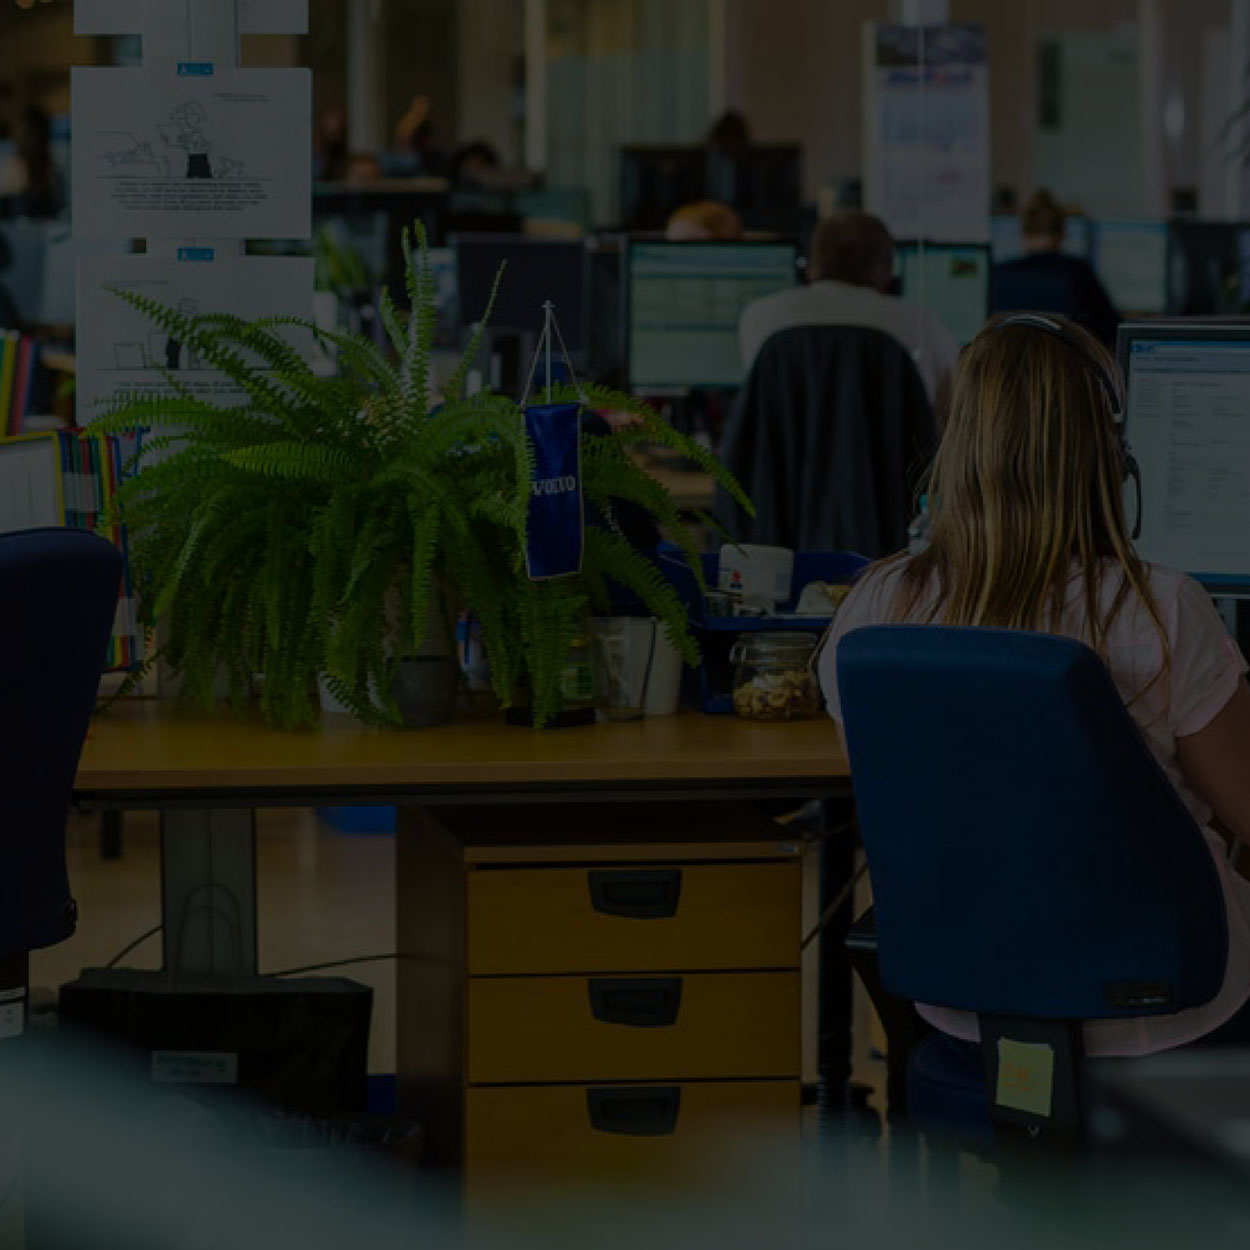
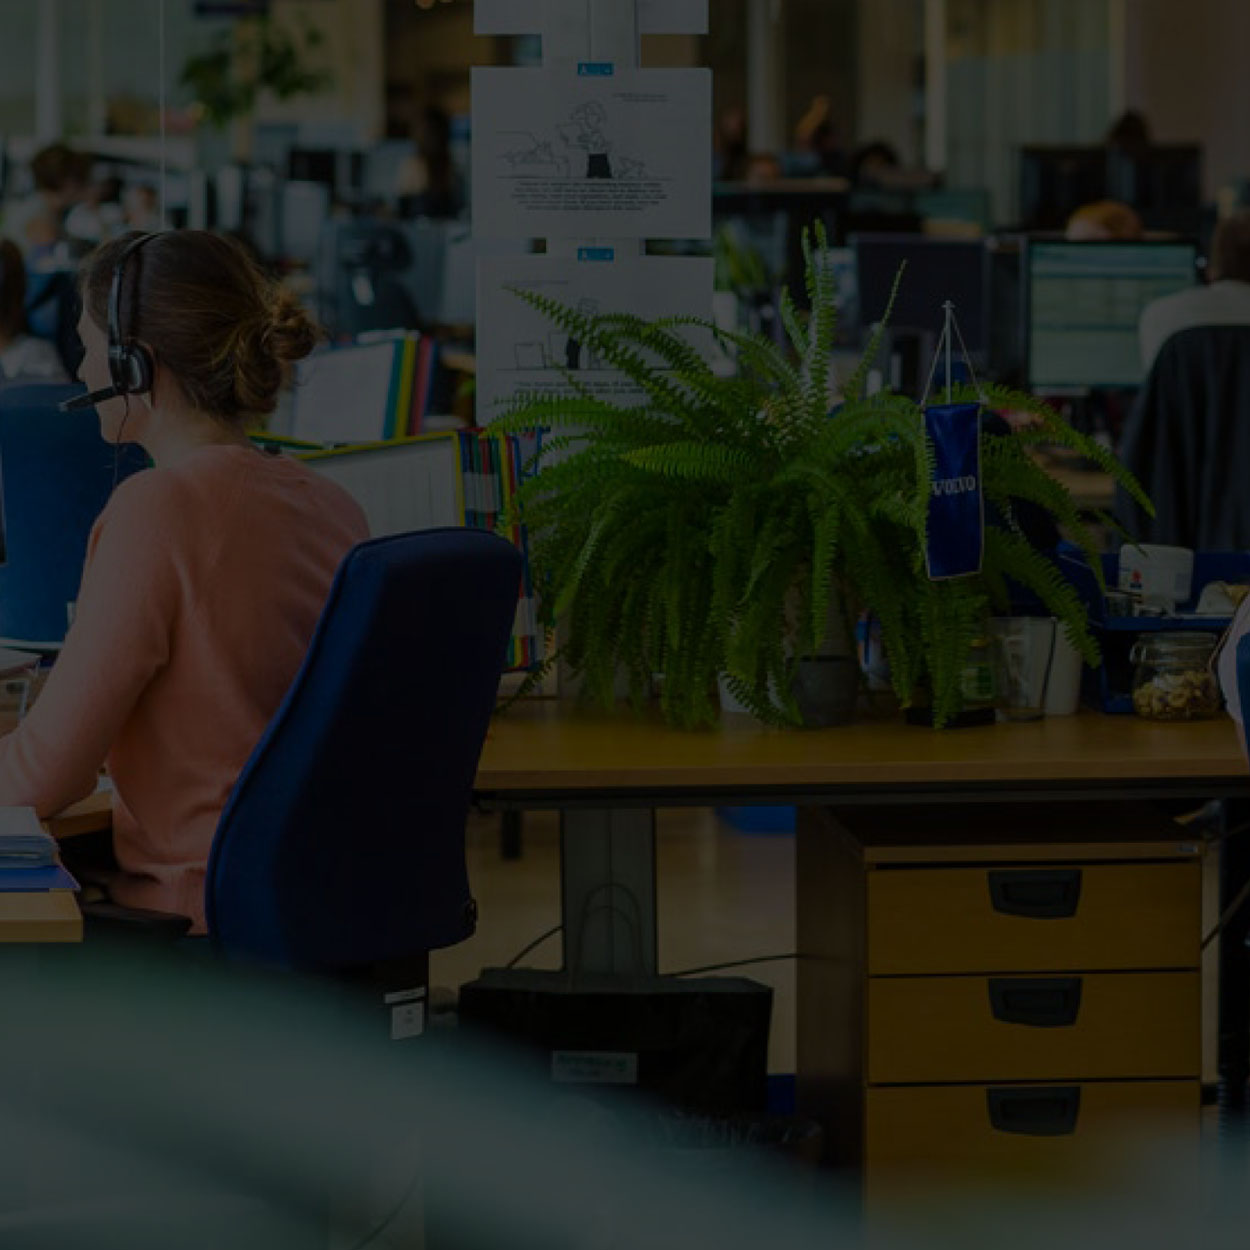
activecare responsive

diff --git a/html/volvo-activecare.html b/html/volvo-activecare.html
@@ -475,19 +475,44 @@
 
 
 
+<div class="tdxintroContain picturefill-background dark semi showMob">
+    <div class="tdxintroInner">
+        <section class="spaceApart alignCenter">
 
+            <div>
+                <img src="/images/2023/activecare/activecare-logo.svg" style="width:90%;" class="m">
+                <br><br>
+                <h5>Get connected.<br>Boost uptime.</h5>
+                <br><br><br><br>
+                <a href="#startM" class="icon"><i class="icon icon-arrow-down2 brandColor animated infinite bounceIn"></i></a>
+            </div>
 
+ 
 
-
-
-
-
-
-<div class="tdxintroContain picturefill-background fixedBG baseLayer">
-    <div class="fullscreen">
+        </section>
     </div>
     <span data-src="/images/2023/activecare/activecare1-m.jpg"></span><!-- use 4:3 aspect for ph -->
-    <span data-src="/images/2023/activecare/activecare1.jpg" data-media="(min-width: 1000px)"></span>
+</div>
+
+
+<div class="tdxintroContain dark showMob" name="startM">
+    <div class="tdxintroInner ">
+        <section class="bottom">
+            <div>
+            <h1 class=" green">Looking out for you.</h1>
+            <p>Telematics data can be a powerful way to improve the uptime of your fleet, but data
+                overload can stand in the way of getting to the information that really matters.</p>
+                <p>That's where Volvo ActiveCare comes in. Combining 24/7 machine monitoring and
+                    fleet utilization reports, this comprehensive service is designed to keep your machines
+                    in top operating condition, reduce unplanned downtime and minimize repair costs.</p>
+            </div>
+             <h5 class="green">Take a  closer look at Volvo ActiveCare</h5>
+            <div class="pbVideo">
+            <iframe src="https://www.youtube.com/embed/YI2-ov0Nit0?rel=0" allow="accelerometer; autoplay; encrypted-media; gyroscope; picture-in-picture" allowfullscreen="" width="560" height="315" frameborder="0"></iframe>
+        </div>
+        </section>
+    </div>
+    
 </div>
 
 
@@ -495,7 +520,15 @@
 
 
 
-<div class="tdxintroContain dark semi">
+
+<div class="tdxintroContain picturefill-background fixedBG baseLayer showDesk">
+    <div class="fullscreen">
+    </div>
+    <span data-src="/images/2023/activecare/activecare1-m.jpg"></span><!-- use 4:3 aspect for ph -->
+    <span data-src="/images/2023/activecare/activecare1.jpg" data-media="(min-width: 1000px)"></span>
+</div>
+
+<div class="tdxintroContain dark semi showDesk">
     <div class="tdxintroInner full">
         <section class="spaceApart insetCenter alignCenter">
 
@@ -516,7 +549,7 @@
 
 
 
-<div class="tdxintroContain picturefill-background fixedBG baseLayer">
+<div class="tdxintroContain picturefill-background fixedBG baseLayer showDesk">
     <div class="fullscreen">
     </div>
     <span data-src="/images/2023/activecare/activecare1-m.jpg"></span><!-- use 4:3 aspect for ph -->
@@ -525,7 +558,7 @@
 
 
 
-<div class="tdxintroContain dark noBG" name="start">
+<div class="tdxintroContain dark noBG showDesk" name="start">
     <div class="tdxintroInner full">
         <section class="bottom">
             <div>
@@ -559,10 +592,10 @@
         <section class="two cols">
 
             <div>
-           
+                
                 <h1 class=" green">The Volvo Uptime Centre</h1>
                 <br>
-            <p>We understand the importance of uptime when it comes
+                <p>We understand the importance of uptime when it comes
                 to the success of your operation, which is why Volvo
                 Construction Equipment has invested in creating Volvo
                 Uptime Centres throughout the world. </p>
@@ -570,6 +603,11 @@
                 <p>Our Volvo machine experts work in these Centres, utilizing the most advanced
                 diagnostic tools and systems, to help keep uptime to a
                 maximum.</p>
+                
+                <picture class="m">
+                    <img src="/images/2023/activecare/activecare4-1-m.jpg" ><br><br>
+                </picture>
+                
             </div>
 
             <div>
@@ -587,7 +625,7 @@
 
 
 
-        <section class=" cols">
+        <section class=" cols d">
             <div>
 
                 <br>
@@ -606,9 +644,16 @@
 </div>
 
 
+<div class="tdxintroContain dark showMob" style="padding:5vw;">
+    <br>
+    <img src="/images/2023/activecare/activecare-process-m.svg" >
+    <br>
+</div>
 
 
-<div class="tdxintroContain dark">
+
+
+<div class="tdxintroContain dark showDesk">
     <div class="tdxintroInner overrideHeight darken">
         <section class=" insetCenter alignCenter">
 
@@ -643,11 +688,22 @@
 
 
 
+
+
 <div class="tdxintroContain dark picturefill-background" name="startFeatures">
     <div class="tdxintroInner darken">
         <section>
+            
+            <h1 class="green m">Volvo ActiveCare Key Benefits</h1>
+            <br class="m">
+            <hr class="m short thickLine">
+            <br class="m">
+            <br class="m">
+
+
+            <img src="/images/2023/activecare/24-7.svg" style="width:50%;" alt="24/7 Machine Monitoring" class="m">
             <img src="/images/2023/activecare/24-7.svg" style="width:80%;" alt="24/7 Machine Monitoring" class="d">
-            <h1 class="green m">24/7 Machine Monitoring</h1>
+
             <br>
            
 
@@ -684,14 +740,18 @@
 
 
 
+<div class="tdxintroContain dark showMob"> 
+    <img src="/images/2023/activecare/activecare6-m.jpg" >
+</div>
+
 
 
 
 <div class="tdxintroContain dark picturefill-background fixedBG noBG">
     <div class="tdxintroInner  darken">
         <section>
-            <img src="/images/2023/activecare/fleet-reports.svg" style="width:80%;" alt="Put reports in action">
-            <h1 class="green m">Put reports in action</h1>
+            <img src="/images/2023/activecare/fleet-reports.svg" style="width:50%;" alt="Put reports in action" class="m">
+            <img src="/images/2023/activecare/fleet-reports.svg" style="width:80%;" alt="Put reports in action" class="d">
             <br>
             
         </section>
@@ -729,7 +789,7 @@
 
 
 
-<div class="tdxintroContain picturefill-background fixedBG ">
+<div class="tdxintroContain picturefill-background fixedBG showDesk">
     <div class="fullscreen">
     </div>
     <span data-src="/images/2023/activecare/activecare6-m.jpg"></span><!-- use 4:3 aspect for ph -->
@@ -741,8 +801,8 @@
 <div class="tdxintroContain dark picturefill-background">
     <div class="tdxintroInner overrideHeight">
         <section>
-            <img src="/images/2023/activecare/cut-through.svg" style="width:80%;" alt="Cut through the noise">
-            <h1 class="green m">Cut through the noise</h1>
+            <img src="/images/2023/activecare/cut-through.svg" style="width:50%;" alt="Cut through the noise" class="m">
+            <img src="/images/2023/activecare/cut-through.svg" style="width:80%;" alt="Cut through the noise" class="d">
             <br>
                        
 

diff --git a/css/styles.css b/css/styles.css
@@ -990,12 +990,12 @@ div#navDeskSec {
 }
 
 @media screen and (min-width: 1100px) {
-    .m {
+    .m,.showMob {
         display: none !important;
     }
 }
 @media screen and (max-width: 1100px) {
-    .d {
+    .d,.showDesk {
         display: none !important;
     }
 }

diff --git a/css/styles-additional.css b/css/styles-additional.css
@@ -2608,7 +2608,7 @@ div.tdxintroContain .grey {
         background-color:rgba(0,0,0,0.5);
     }
     div.tdxintroInner.full  {
-       /* min-height: 80vh;*/
+       min-height: 80vh;
     }
     div.tdxintroInner  {
         padding: 15vh 10vw;
